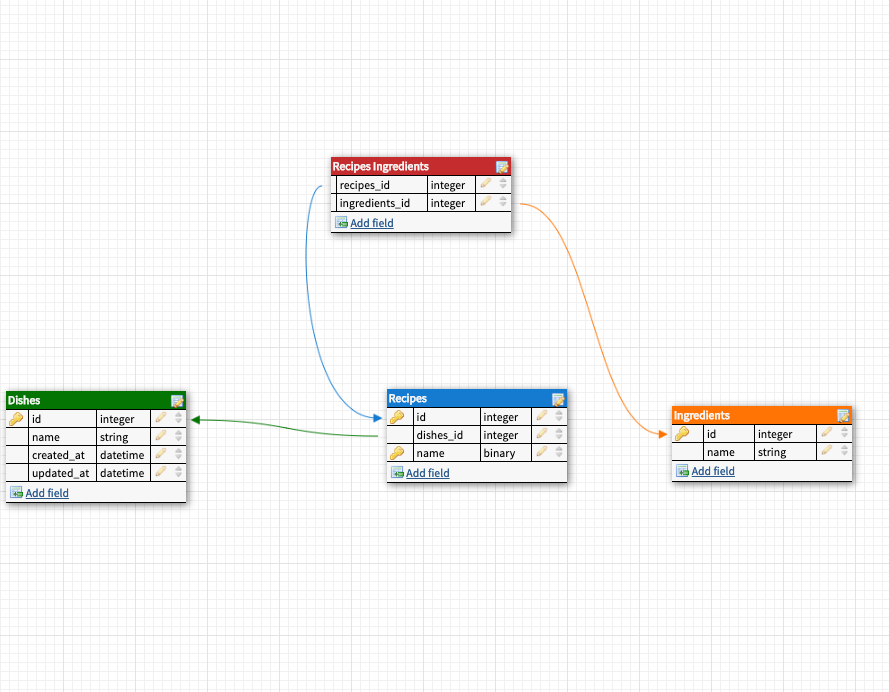
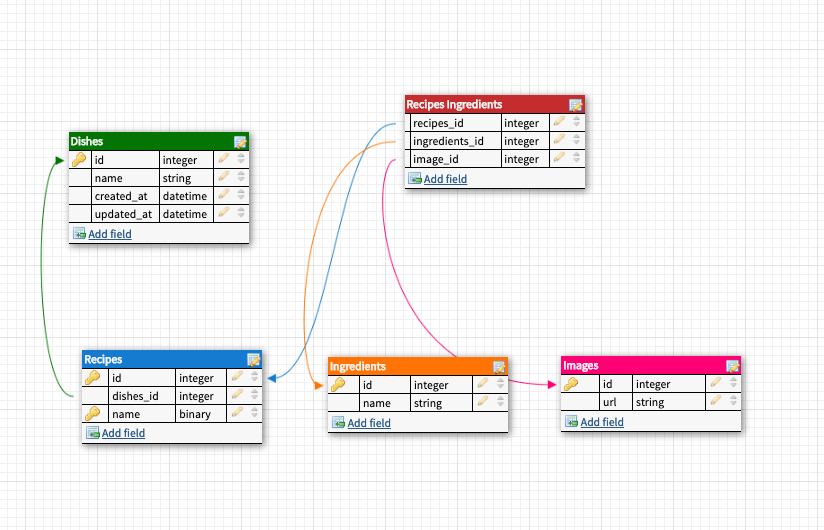
added migration seeds for didshes

diff --git a/data/seeds/001_dishes.js b/data/seeds/001_dishes.js
@@ -1,0 +1,36 @@
+exports.seed = function(knex, Promise) {
+  // Deletes ALL existing entries
+  return knex("dishes")
+    .truncate()
+    .then(function() {
+      // Inserts seed entries
+      return knex("dishes").insert([
+        { name: "dishes 1" },
+        { name: "dishes 2" },
+        { name: "dishes 3" },
+        { name: "dishes 4" },
+        { name: "dishes 5" },
+        { name: "dishes 6" },
+        { name: "dishes 7" },
+        { name: "dishes 8" },
+        { name: "dishes 9" },
+        { name: "dishes 10" },
+        { name: "dishes 11" },
+        { name: "dishes 12" },
+        { name: "dishes 13" },
+        { name: "dishes 14" },
+        { name: "dishes 15" },
+        { name: "dishes 16" },
+        { name: "dishes 17" },
+        { name: "dishes 18" },
+        { name: "dishes 19" },
+        { name: "dishes 20" },
+        { name: "dishes 21" },
+        { name: "dishes 22" },
+        { name: "dishes 23" },
+        { name: "dishes 24" },
+        { name: "dishes 25" },
+        { name: "dishes 26" }
+      ]);
+    });
+};

diff --git a/data/migrations/20190221124254_recipes_ingredients.js b/data/migrations/20190221124254_recipes_ingredients.js
@@ -11,7 +11,13 @@ exports.up = function(knex, Promise) {
       .references("id")
       .inTable("ingredients");
 
-    tbl.primary(["recipes_id", "ingredients_id"]);
+    tbl
+      .integer("image_id")
+      .notNullable()
+      .references("id")
+      .inTable("images");
+
+    tbl.primary(["recipes_id", "ingredients_id", "image_id"]);
   });
 };
 

diff --git a/data/migrations/20190221124515_recipes.js b/data/migrations/20190221124515_recipes.js
@@ -2,7 +2,7 @@ exports.up = function(knex, Promise) {
   return knex.schema.createTable("recipes", tbl => {
     tbl.increments(); //primary id
     tbl
-      .integer("ingredients_id")
+      .integer("dishes_id")
       .notNullable()
       .references("id")
       .inTable("dishes");

diff --git a/data/migrations/20190221130600_images.js b/data/migrations/20190221130600_images.js
@@ -1,0 +1,10 @@
+exports.up = function(knex, Promise) {
+  return knex.schema.createTable("images", tbl => {
+    tbl.increments();
+    tbl.string("url").notNullable();
+  });
+};
+
+exports.down = function(knex, Promise) {
+  return knex.schema.dropTableIfExists("images");
+};

diff --git a/knexfile.js b/knexfile.js
@@ -4,7 +4,7 @@ module.exports = {
   development: {
     client: "sqlite3",
     connection: {
-      filename: "./dev.sqlite3"
+      filename: "./data/db.sqlite3"
     },
     useNullAsDefault: true,
     migrations: {

diff --git a/dishes/index.js b/dishes/index.js
@@ -1,0 +1,4 @@
+const express = require("express");
+
+//init & db
+const server = express.Router();
